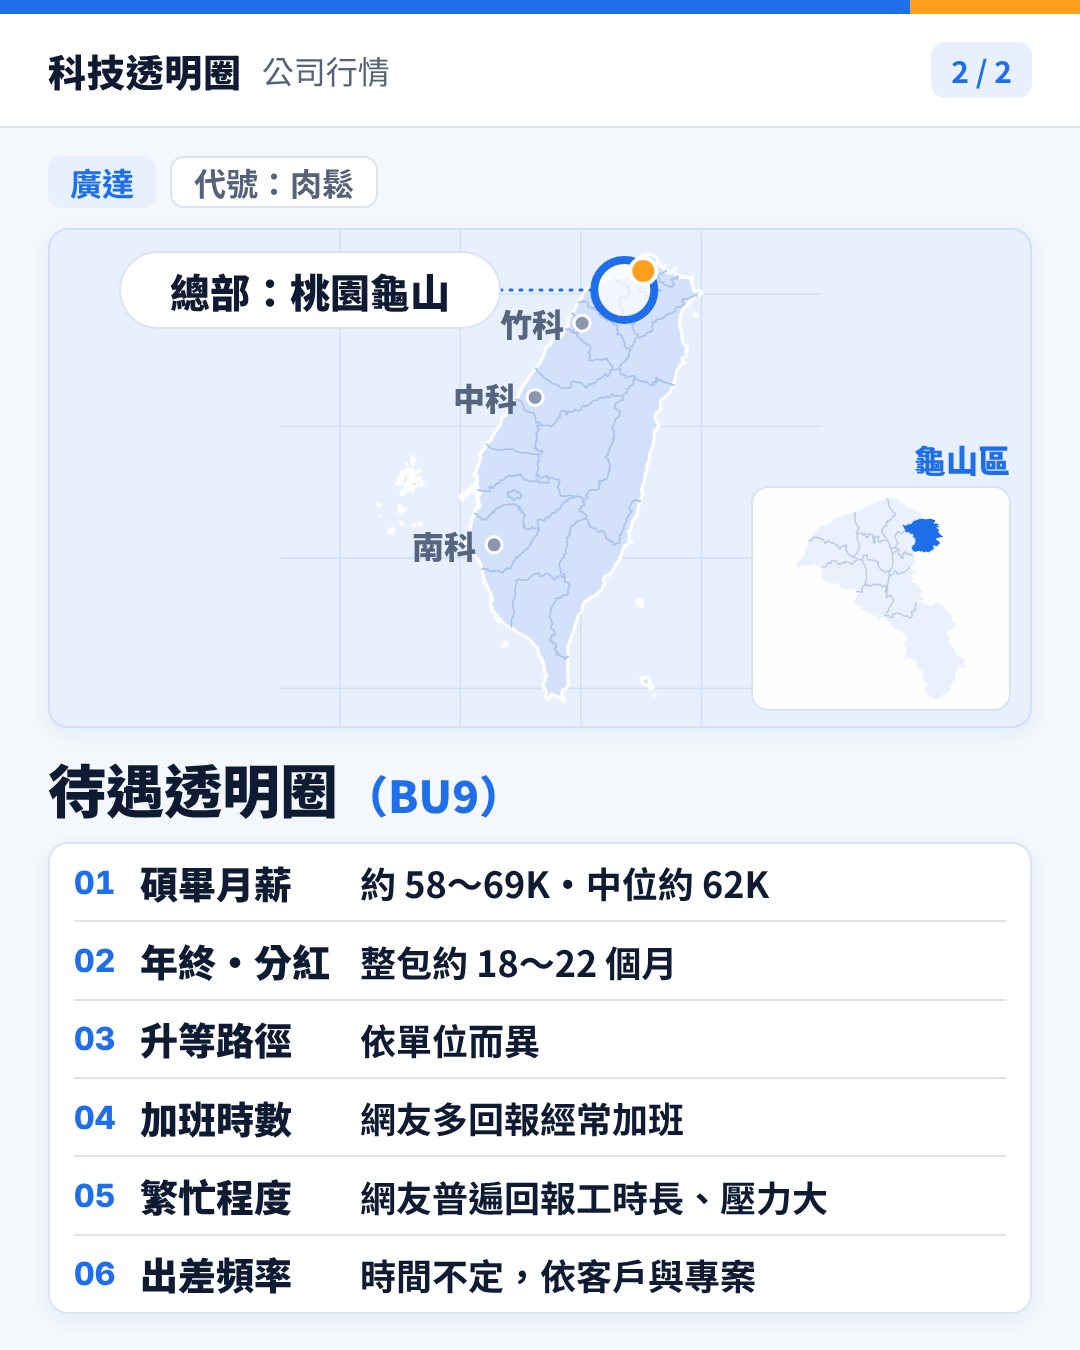
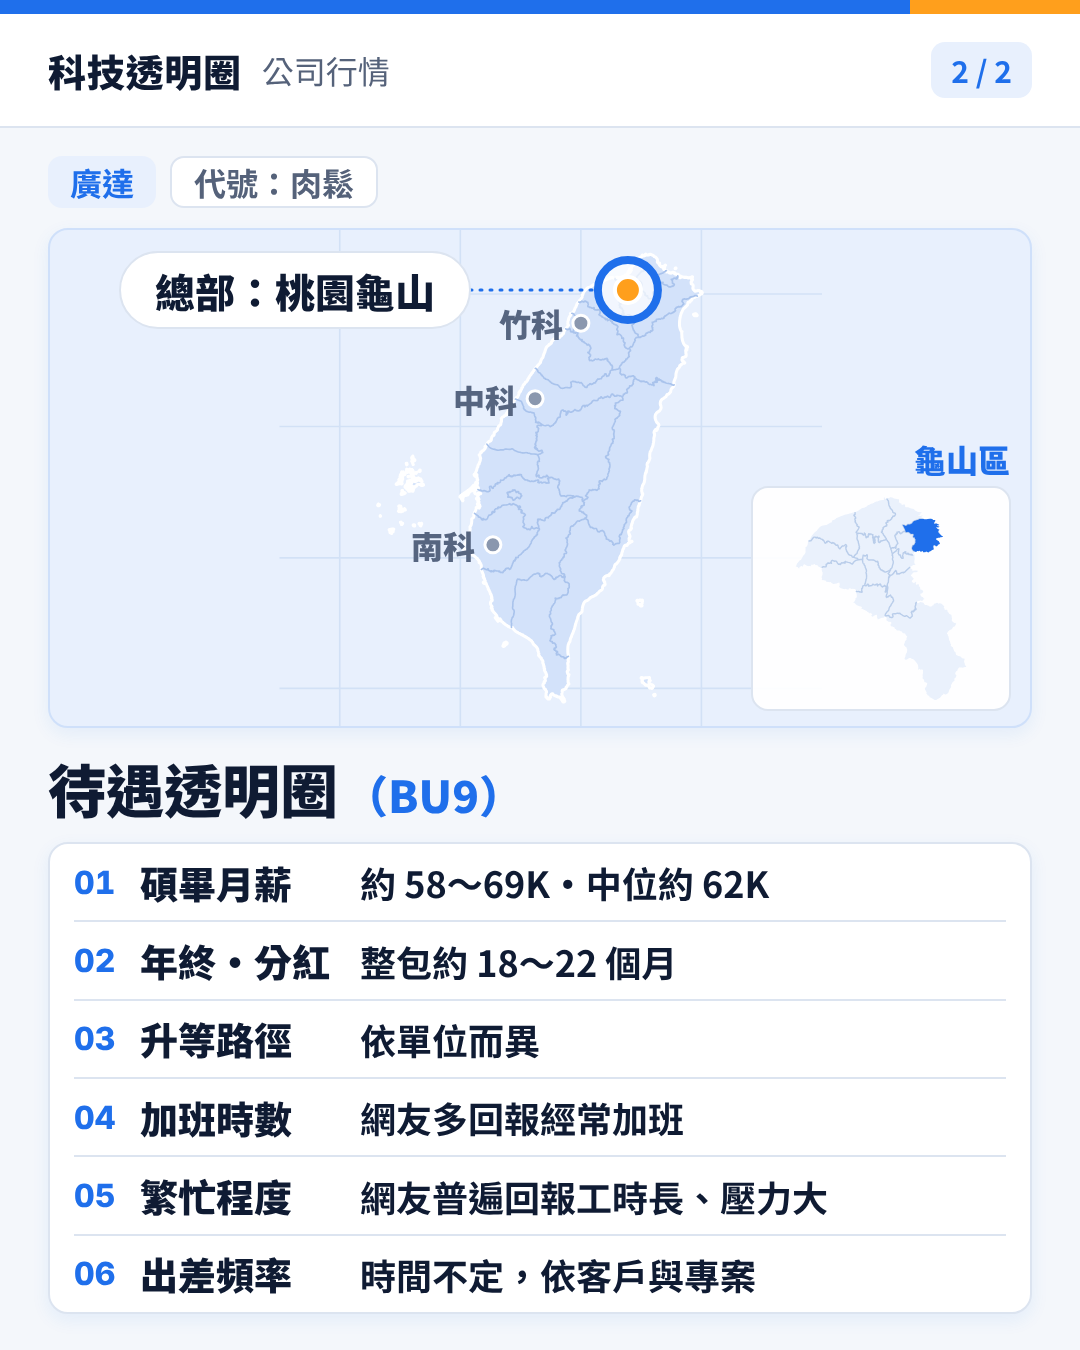
科技透明圈 廣達第 2 頁地圖點位改用經緯度投影換算（龜山 25.03N,121.39E 等）、橘點移到圈心、總部標籤縮窄避開竹科；附前後對照圖
Claude-Session: https://claude.ai/code/session_018gakVRNRsek4G6osuECGNS

diff --git a/docs/marketing/channels/tc/posts/20261105_quanta/render_quanta.py b/docs/marketing/channels/tc/posts/20261105_quanta/render_quanta.py
@@ -225,8 +225,8 @@ IS_H = 448                        # 台灣（含澎湖）高度，寬依比例
 IS_W = IS_H * TW["w"] / TW["h"]
 IS_X, IS_Y = (MAP_W - IS_W) / 2, (MAP_H - IS_H) / 2   # 本島左上角（置中）
 k = IS_H / TW["h"]
-PX_, PY_ = IS_X + TW["pt"][0] * k, IS_Y + TW["pt"][1] * k   # 龜山點位
-LBL_W, LBL_H = 380, 76
+PX_, PY_ = IS_X + TOWNS["hq"][0] * k, IS_Y + TOWNS["hq"][1] * k   # 龜山（廣達總部）點位：經緯度 25.03N,121.39E 用與輪廓相同的投影換算（make_towns.mjs），不手動擺
+LBL_W, LBL_H = 350, 76
 LBL_X, LBL_Y = 70, PY_ - LBL_H / 2
 GRAY = "#566580"
 _g = (f'<g transform="translate({IS_X:.1f} {IS_Y:.1f}) scale({k:.5f})"><path d="{TOWNS["grat"]}" fill="none" stroke="#D2E1F6" stroke-width="{1.6/k:.1f}"/></g>')   # (d) 海面極淡經緯網格（色深淺，不用漸層）
@@ -242,7 +242,7 @@ MAP_SVG = (f'<svg data-b width="{MAP_W}" height="{MAP_H}" viewBox="0 0 {MAP_W} {
     f'<path d="{TW["borders"]}" fill="none" stroke="#A9C3EC" stroke-width="{1.6/k:.1f}" stroke-linejoin="round" stroke-linecap="round"/></g>' + _refs + _inset +
     f'<line x1="{LBL_X+LBL_W}" y1="{PY_:.1f}" x2="{PX_-30:.1f}" y2="{PY_:.1f}" stroke="{BLUE}" stroke-width="3" stroke-dasharray="2 8" stroke-linecap="round"/>'
     f'<circle data-lbl="hqc" cx="{PX_:.1f}" cy="{PY_:.1f}" r="30" fill="#fff" fill-opacity=".7" stroke="{BLUE}" stroke-width="8"/>'
-    f'<circle data-lbl="hqc" cx="{PX_+19:.1f}" cy="{PY_-19:.1f}" r="13" fill="{ORG}" stroke="#fff" stroke-width="4"/>'
+    f'<circle data-lbl="hqc" cx="{PX_:.1f}" cy="{PY_:.1f}" r="13" fill="{ORG}" stroke="#fff" stroke-width="4"/>'
     f'<rect x="{LBL_X}" y="{LBL_Y:.1f}" width="{LBL_W}" height="{LBL_H}" rx="38" fill="#fff" stroke="{LINE}" stroke-width="2" data-lbl="hqbox"/>'
     f'<text x="{LBL_X+LBL_W/2}" y="{LBL_Y+LBL_H/2+1:.1f}" text-anchor="middle" dominant-baseline="central" font-size="40" font-weight="800" fill="{INK}" font-family="Noto Sans TC" data-lbl="hq">{HQ_LABEL}</text></svg>')
 S["2_fields"] = f"""{top('公司行情', '2 / 2')}
